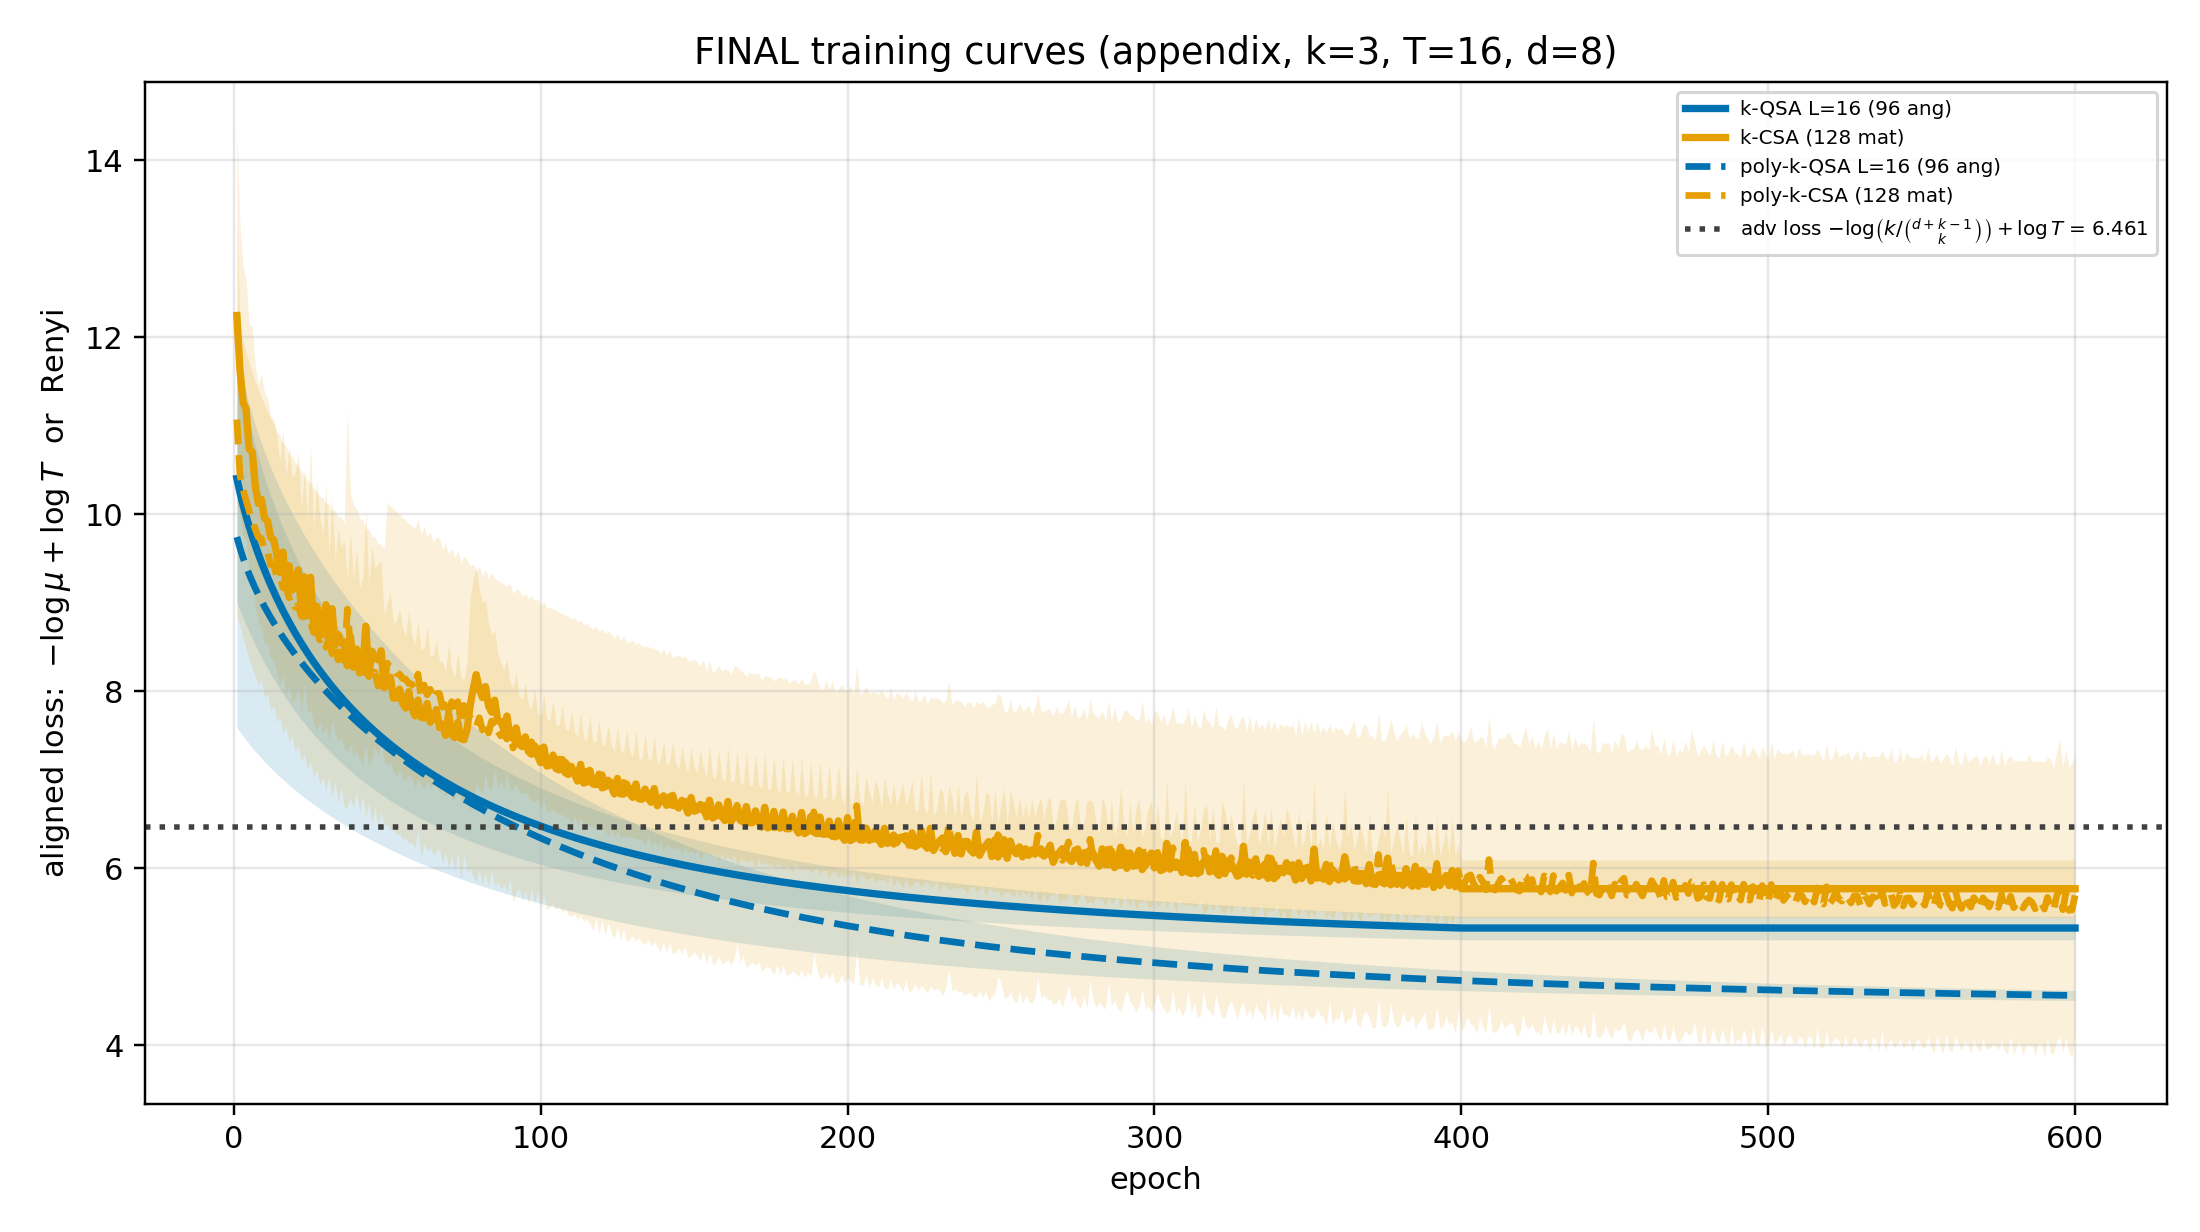
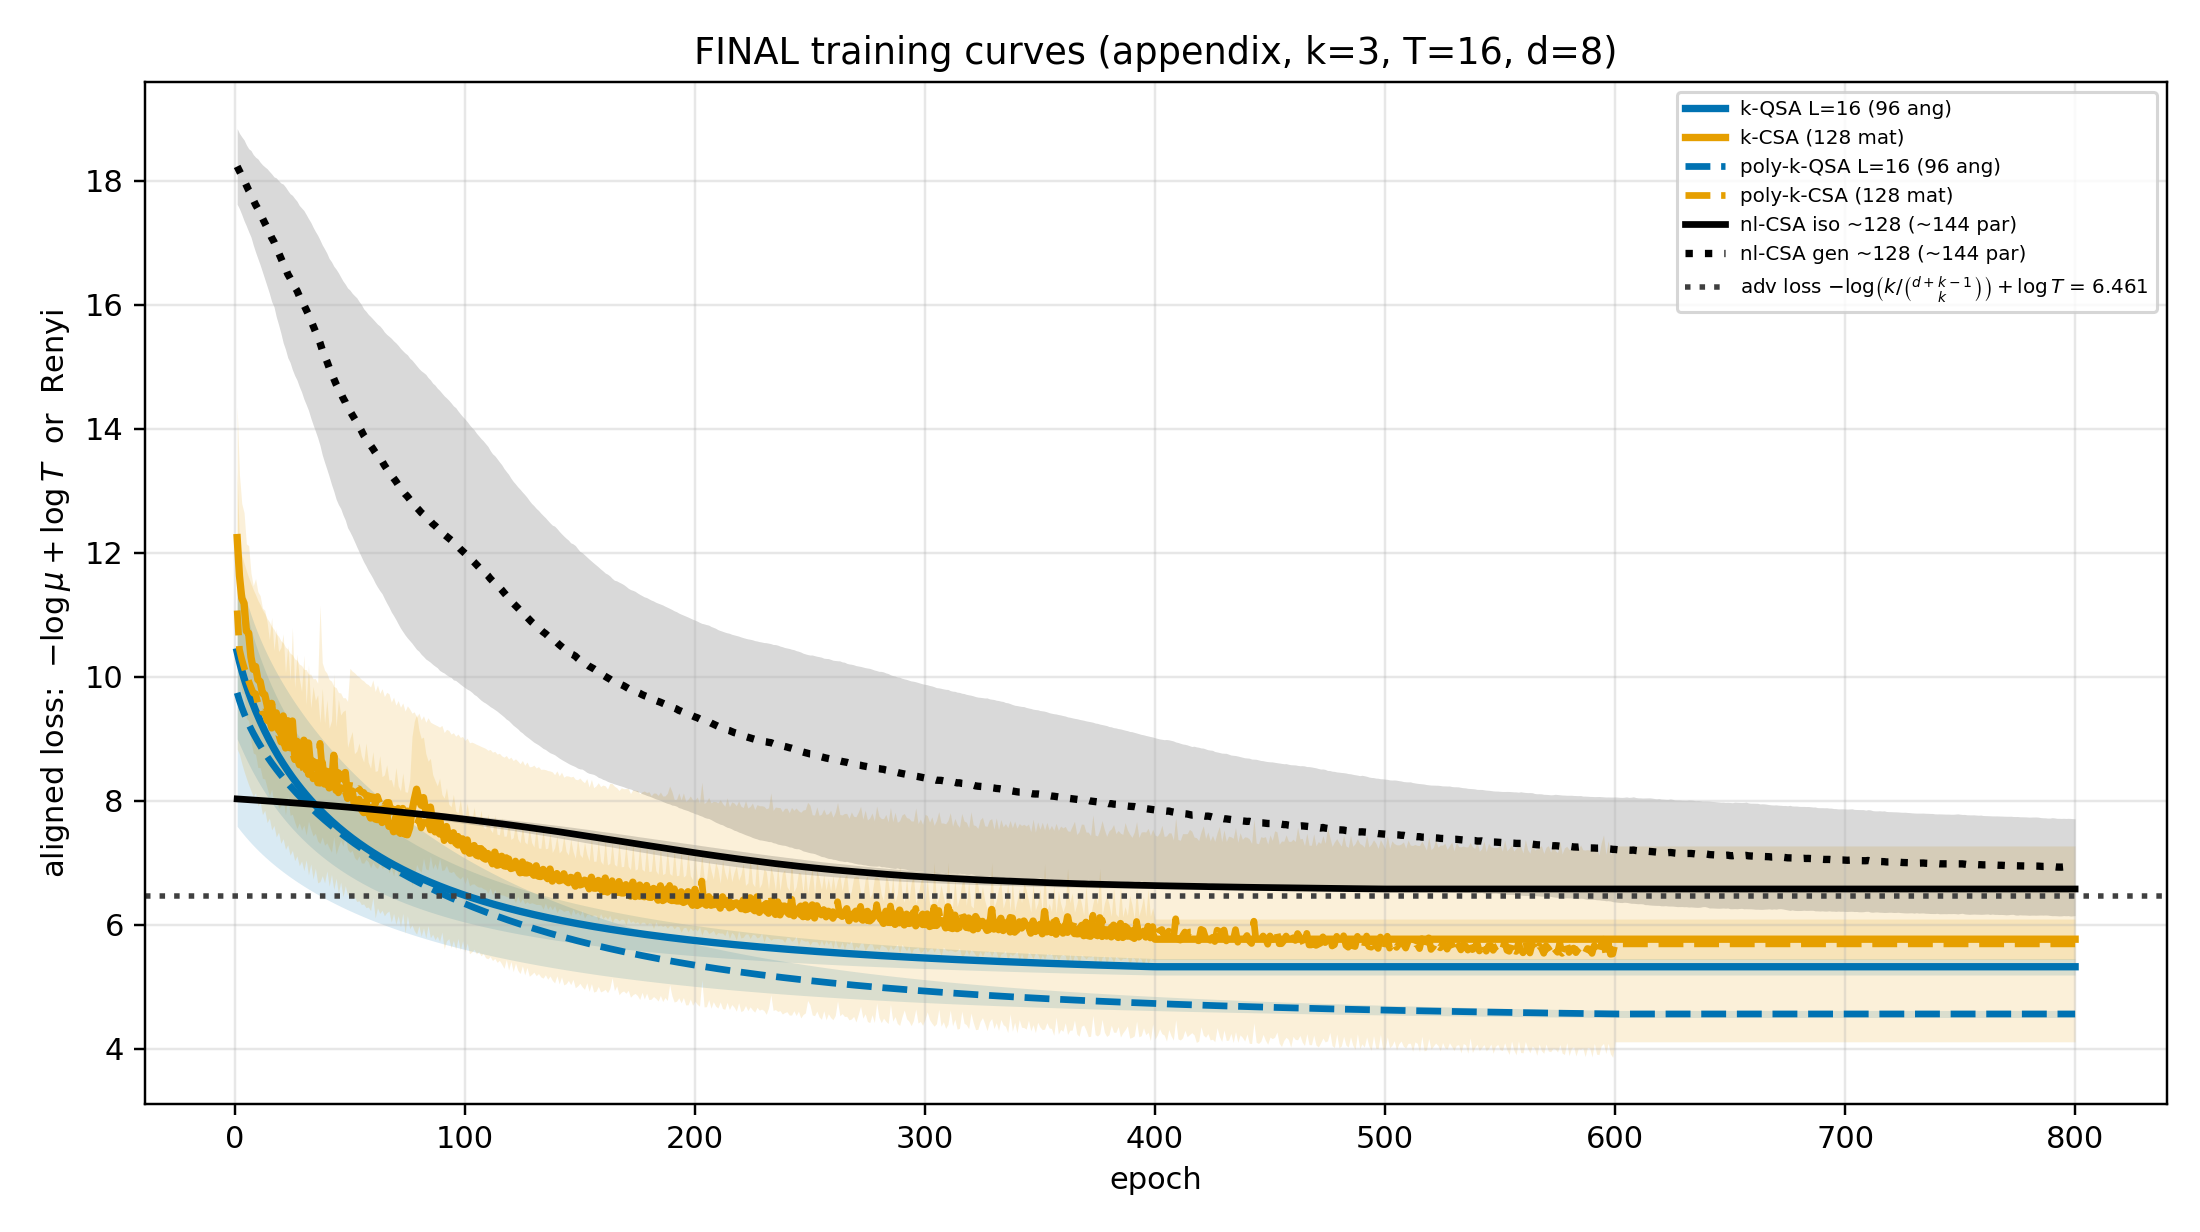
Fix appendix replot to include nl-CSA training curves.
Replot-only was dropping nl_refs from the k=3 appendix figure.

diff --git a/run_final_loss.py b/run_final_loss.py
@@ -691,7 +691,7 @@ def _replot_from_summary(out: Path, appendix_curves_k: int | None = None) -> int
         if appendix_curves_k is not None
         else summary.get("config", {}).get("appendix_curves_k", 3)
     )
-    aggs_appendix = aggs_by_k.get(str(appendix_k)) or []
+    aggs_appendix = (aggs_by_k.get(str(appendix_k)) or []) + (summary.get("nl_refs") or [])
     if aggs_appendix:
         plot_final_curves(
             aggs_appendix,
